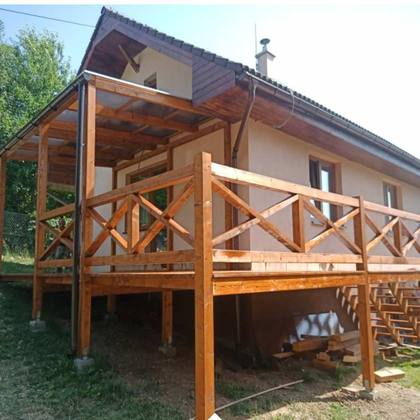
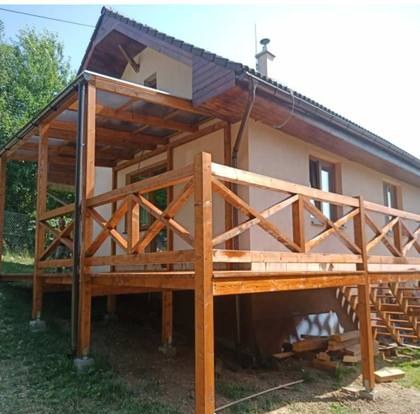
EcoDomcek: Realizacie ako kronika skutocnych stavieb
Najvacsi obraz na stranke dokazov bol render, potom osem rovnakych
kariet. Teraz kronika 2024 -> 2008: rok ako serifova cislica
stavebneho listu, kazda stavba so skutocnou fotkou v poctivej mierke
(dom <= 540, terasa <= 420, nikdy nad zdroj), miesto, specs, odkaz.
Filtre skryvaju aj prazdne rocniky. Render len na detaile Luciny.

Pat fotiek nieslo biely „jazycek" starej WordPress sablony zapeceny
v obraze — orezane jednym rezom z originalov. Rozmery fotiek sa citaju
zo suborov namiesto rucnych tabuliek, ktore sa po oreze rozisli.

LOCAL: 15 stranok x 3 sirky, router, filter, bundle z file://,
stavebny list. Safari a realny mobil NOT VALIDATED.

Claude-Session: https://claude.ai/code/session_0185BVM6PQ8B7oEkPHRwx1P3

diff --git a/clients/ecodomcek/web/src/site.css b/clients/ecodomcek/web/src/site.css
@@ -425,16 +425,6 @@ h1 em,h2 em,h3 em{font-style:normal;color:var(--moss)}
 .more{margin-top:clamp(30px,4vh,52px)}
 
 /* project cards: the photo is 420 px, so it is never shown larger than it is */
-.cards{display:grid;grid-template-columns:repeat(4,1fr);gap:clamp(18px,2.4vw,40px) clamp(16px,2vw,32px)}
-.card{display:block;grid-column:span 1}
-.card .frame{aspect-ratio:1/1;background:var(--paper2)}
-.card img{width:100%;height:100%;object-fit:cover;transition:transform 1.1s var(--ease)}
-.card:hover img{transform:scale(1.035)}
-.cmeta{display:flex;justify-content:space-between;gap:12px;margin-top:12px;font-family:var(--mono);
-  font-size:10px;letter-spacing:.12em;text-transform:uppercase;color:var(--ink2)}
-.card h3{margin-top:8px;font-size:clamp(17px,1.35vw,21px);line-height:1.2}
-.card .pl{margin-top:5px;font-family:var(--mono);font-size:10.5px;letter-spacing:.1em;
-  text-transform:uppercase;color:var(--ink2)}
 
 /* project detail: one honest photo plate beside the client's own words */
 .proj{display:grid;grid-template-columns:minmax(0,420px) minmax(0,1fr);gap:clamp(26px,5vw,80px);
@@ -480,11 +470,9 @@ h1 em,h2 em,h3 em{font-style:normal;color:var(--moss)}
   gap:clamp(26px,5vw,80px);align-items:start}
 
 @media (max-width:1040px){
-  .cards{grid-template-columns:repeat(2,1fr)}
   .refs{grid-template-columns:1fr}
 }
 @media (max-width:820px){
-  .cards{grid-template-columns:1fr 1fr;gap:20px 14px}
   .proj,.story{grid-template-columns:1fr;gap:28px}
   .plate{max-width:420px}
   .trio{grid-template-columns:1fr;gap:26px}
@@ -554,7 +542,6 @@ h1 em,h2 em,h3 em{font-style:normal;color:var(--moss)}
 .filters button sup{font-size:8px;margin-left:3px;color:var(--amber)}
 .filters button:hover{color:var(--ink);border-color:var(--ink2)}
 .filters button.on{color:var(--paper);background:var(--ink);border-color:var(--ink)}
-.card.off{display:none}
 
 /* nav superscripts */
 nav a sup{font-size:8px;margin-left:3px;color:var(--amber);letter-spacing:0}
@@ -1082,4 +1069,49 @@ h2.big em{font-style:normal;color:var(--moss)}
   .svchead{grid-template-columns:1fr}
   .svchead p{justify-self:start}
   .svcwords{font-size:clamp(34px,10.4vw,52px);line-height:1.06}
+}
+
+/* ═══ REALIZÁCIE — a chronicle of the real jobs ═════════════════════════
+   The work leads (exoape.md); every row is a real job with its real photo
+   at an honest size (basement.md); the year is the sheet's numeral.     */
+.realmast{padding-block:clamp(110px,15vh,160px) 0}
+.realmast h1{font-size:clamp(40px,5.3vw,90px)}
+.realmast + .band{padding-top:clamp(28px,5vh,56px)}
+.rmgrid{display:grid;grid-template-columns:minmax(0,1.1fr) minmax(0,.9fr);gap:clamp(24px,4vw,70px);align-items:end}
+.rmr .lead{max-width:42ch}
+.rmr .filters{margin-top:22px}
+.yeargroup{display:grid;grid-template-columns:minmax(0,.55fr) minmax(0,1.45fr);gap:clamp(20px,4vw,70px);
+  border-top:1px solid var(--line);padding-block:clamp(28px,5vh,60px)}
+.yeargroup.empty{display:none}
+.ynum{position:sticky;top:clamp(92px,13vh,124px);align-self:start;font-family:var(--serif);font-weight:200;
+  font-size:clamp(80px,10.5vw,180px);line-height:.8;letter-spacing:-.05em;color:var(--ink)}
+.jobs{display:grid;gap:clamp(36px,6vh,72px)}
+.job{display:grid;grid-template-columns:fit-content(600px) minmax(220px,1fr);gap:clamp(20px,3vw,48px);
+  align-items:end}
+.job.off{display:none}
+.jpic{width:min(var(--w),40vw);box-shadow:0 24px 50px -34px rgba(35,31,26,.55)}
+.jpic .clipimg{overflow:hidden;background:var(--paper2)}
+.jpic img{width:100%;transition:transform .7s var(--ease)}
+.job:hover .jpic img{transform:scale(1.025)}
+.jtext .mono{display:block}
+.jtext h2{font-size:clamp(26px,2.5vw,42px);line-height:1.04;margin:8px 0 18px}
+.jtext ul{list-style:none;margin:0;padding:0;border-top:1px solid var(--line2);max-width:420px}
+.jtext li{display:grid;grid-template-columns:118px minmax(0,1fr);gap:10px;padding:8px 0;
+  border-bottom:1px solid var(--line2);font-size:15px;line-height:1.35}
+.jtext li .mono{font-size:10px;align-self:center}
+.jgo{display:inline-flex;align-items:center;gap:10px;margin-top:18px;color:var(--moss);font-weight:500;
+  transition:gap .3s var(--ease)}
+.job:hover .jgo{gap:16px}
+.job.nophoto{grid-template-columns:minmax(0,1fr)}
+.job.nophoto .jtext{max-width:520px;padding:22px 0 0;border-top:1px dashed var(--line)}
+.chron-note{border-top:1px solid var(--line);padding-top:22px}
+@media (max-width:980px){
+  .rmgrid{grid-template-columns:1fr}
+  .job{grid-template-columns:minmax(0,1fr)}
+  .jpic{width:min(var(--w),100%)}
+}
+@media (max-width:820px){
+  .yeargroup{grid-template-columns:minmax(0,1fr);gap:18px;padding-block:26px 34px}
+  .ynum{position:static;font-size:clamp(64px,19vw,96px)}
+  .jobs{gap:40px}
 }

diff --git a/clients/ecodomcek/web/src/site.js b/clients/ecodomcek/web/src/site.js
@@ -65,7 +65,7 @@
   function initFilters() {
     var bar = main.querySelector('.filters');
     if (!bar) return;
-    var cards = main.querySelectorAll('.card');
+    var cards = main.querySelectorAll('.card, .job');
     bar.addEventListener('click', function (e) {
       var b = e.target.closest('button');
       if (!b) return;
@@ -74,6 +74,10 @@
       cards.forEach(function (c) {
         var tags = (c.dataset.tags || '').split('|');
         c.classList.toggle('off', !!f && tags.indexOf(f) === -1);
+      });
+      // a year with nothing left in it disappears with its numeral
+      main.querySelectorAll('.yeargroup').forEach(function (g) {
+        g.classList.toggle('empty', !g.querySelector('.job:not(.off)'));
       });
       ScrollTrigger.refresh();
     });

diff --git a/clients/ecodomcek/web/src/pages.py b/clients/ecodomcek/web/src/pages.py
@@ -42,6 +42,12 @@ def layer(name):
             f'<img class="mat" src="assets/lyr-{name}.webp" alt="" draggable="false">{pin}</div>')
 
 
+# real photo sizes, read from the files — hard-coded sizes drifted the
+# moment a photo was re-cropped
+from PIL import Image as _Image
+SHOTS = {f.stem: _Image.open(f).size for f in sorted((REND / "photos").glob("*.jpg"))}
+
+
 def title_of(p):
     return p.get("short", p["title"])
 
@@ -265,47 +271,53 @@ def build(B):
     # ═══════════════════════════════════════════════════════════════════
     # 2 — REALIZÁCIE (index)
     # ═══════════════════════════════════════════════════════════════════
-    cards = ""
-    for i, p in enumerate(C.PROJECTS):
-        cards += (f'<a class="card" href="realizacia-{p["slug"]}.html" data-reveal '
-                  f'data-tags="{esc("|".join(p["tags"]))}">'
-                  f'<div class="frame clipimg">{plate_img(p, esc)}</div>'
-                  f'<div class="cmeta"><span class="yr">{p["year"]}</span>'
-                  f'<span class="tg">{esc(" · ".join(p["tags"]))}</span></div>'
-                  f"<h3>{esc(title_of(p))}</h3>"
-                  f'<p class="pl">{esc(p["place"])}</p></a>')
+    # The proof page used to open on a visualisation — the render was the
+    # biggest picture on the page that is supposed to show built work — and
+    # then eight identical square cards. Now it is a chronicle of the real
+    # jobs, newest first, ending where it began (2008). The year is the
+    # sheet's serif numeral (same system as the detail page); each job keeps
+    # its real photo at an honest size — a house wider than a terrace, never
+    # wider than its source (basement.md: real content is the credibility;
+    # exoape.md: the work leads, the type floats beside it at full ink).
+    from collections import Counter, OrderedDict
+    years = OrderedDict()
+    for p in C.PROJECTS:
+        years.setdefault(p["year"], []).append(p)
+    SRC = {k: w for k, (w, _) in SHOTS.items()}
+    groups = ""
+    for y, jobs in years.items():
+        rows = ""
+        for p in jobs:
+            house = "Dom" in p["tags"]
+            wmax = min(SRC.get(p.get("photo") or "", 0), 540 if house else 420)
+            specs = "".join(f"<li><span class=\"mono\">{esc(k)}</span>{esc(v)}</li>" for k, v in p["specs"][:3])
+            pic = (f'<div class="jpic" style="--w:{wmax}px"><div class="clipimg">{plate_img(p, esc)}</div></div>'
+                   if photo_src(p) else "")
+            where = f'{esc(p["place"])} · ' if p["place"] else ""
+            rows += (f'<a class="job{" nophoto" if not pic else ""}" href="realizacia-{p["slug"]}.html" data-reveal '
+                     f'data-tags="{esc("|".join(p["tags"]))}">{pic}'
+                     f'<div class="jtext"><span class="mono">{where}{esc(p["month"])}</span>'
+                     f'<h2>{esc(title_of(p))}</h2><ul>{specs}</ul>'
+                     f'<span class="jgo">Stavebný list {ARROW}</span></div></a>')
+        groups += (f'<section class="yeargroup" data-year="{y}"><div class="ynum" aria-hidden="true">{y}</div>'
+                   f'<div class="jobs">{rows}</div></section>')
 
-    real = masthead("Osem stavieb.|Jedna <em>technológia</em>.",
-                    "Od svojpomocného domčeka v Lúčine po dvojpodlažný dom pri Košiciach. "
-                    "Každá stavba je difúzne otvorená a z ekologických materiálov — "
-                    "to sa nemení, aj keď fasáda áno.", name="Realizácie")
-    from collections import Counter
     cnt = Counter(t for p in C.PROJECTS for t in p["tags"])
     chips_f = f'<button class="on" data-f="">Všetko <sup>{len(C.PROJECTS)}</sup></button>' + "".join(
         f'<button data-f="{esc(t)}">{esc(t)} <sup>{n}</sup></button>' for t, n in cnt.most_common())
-    real += section(1, "Realizácie", "paper", f'''<div class="wrap">
-  <div class="filters mono" data-reveal>{chips_f}</div>
-  <a class="feature" href="realizacia-2024-lucina.html" data-reveal>
-    <figure data-par>
-      <div class="frame clipimg" style="aspect-ratio:21/9">
-        <img src="assets/hero.jpg" alt="Rodinný dom Lúčina — vizualizácia" loading="eager"></div>
-    </figure>
-    <div class="fmeta">
-      <div>
-        <h2 class="fade">Moderný dizajnový dom {ARROW}</h2>
-      </div>
-      <div>
-        <p class="fade d2">Drevená fasáda (Rhombus profil) v kombinácii s kompaktnými doskami
-          Fundermax. Stojí v našej dedine — vidíme naň z dvora.</p>
-        <p class="fine fade d3" style="margin-top:12px">Vizualizácia navrhnutá podľa realizácie —
-          nie je to fotografia.</p>
-      </div>
+    real = f'''<section class="band realmast" data-sec="Realizácie">
+  <div class="wrap rmgrid" data-reveal>
+    <h1>{lines("Osem stavieb.|Jedna <em>technológia</em>.")}</h1>
+    <div class="rmr">
+      <p class="lead fade d2">Od svojpomocného domčeka v Lúčine po dvojpodlažný dom pri Košiciach.
+        Každá stavba je difúzne otvorená a z ekologických materiálov — to sa nemení, aj keď fasáda áno.</p>
+      <div class="filters mono fade d3">{chips_f}</div>
     </div>
-  </a>
-  <div class="cards">{cards}</div>
-  <p class="fine" style="margin-top:clamp(30px,5vh,60px)">Fotografie sú zo skutočných realizácií
-    EcoDomčeka, v rozlíšení, v akom ich máme. Garážo-sklado-terasu (2019) zatiaľ bez fotografie —
-    ostré zábery doplníme, keď ich od klienta dostaneme.</p>
+  </div>
+</section>'''
+    real += section(1, "Kronika", "paper", f'''<div class="wrap chronicle">{groups}
+  <p class="fine chron-note">Fotografie sú zo skutočných realizácií EcoDomčeka, v rozlíšení, v akom
+    ich máme. Garážo-sklado-terasu (2019) zatiaľ bez fotografie.</p>
 </div>''')
     real += contact_band("realizacie.html")
     page("realizacie.html", "Realizácie — EcoDomček",
@@ -337,10 +349,7 @@ def build(B):
     # project without a photograph keeps the whole drawing and loses only
     # the image.
     # ═══════════════════════════════════════════════════════════════════
-    SHOTSIZE = {"2008-prvotina": (800, 777), "2015-budatin": (800, 762),
-                "2019-terasa-chrastne": (800, 568), "2021-bungalov-presov": (800, 775),
-                "2021-terasa": (420, 420), "2023-kosice": (800, 670),
-                "2024-lucina": (880, 850)}
+    SHOTSIZE = SHOTS
     for i, p in enumerate(C.PROJECTS):
         nxt = C.PROJECTS[(i + 1) % len(C.PROJECTS)]
         prv = C.PROJECTS[(i - 1) % len(C.PROJECTS)]

diff --git a/clients/ecodomcek/ART_DIRECTION.md b/clients/ecodomcek/ART_DIRECTION.md
@@ -661,3 +661,27 @@ telefónu) na oboch šírkach, potom plná regresia. Zo auditu ostáva
 otvorené: Realizácie (render ako hlavný obraz, rovnaké karty), O nás
 (prázdna pravá polovica, zdvojené motto), LCP úvodu 5,0 s na
 mobile, text pod 12 px, dva `h1` na úvode.
+
+---
+
+## Fáza 12 — Realizácie ako kronika (2026-09-24)
+
+Audit: najväčší obraz na stránke dôkazov bol **render**, potom osem
+rovnakých štvorcových kariet; prvá obrazovka bez jedinej fotky. Teraz
+kronika skutočných stavieb, najnovšie prvé, končí tam, kde to začalo
+(2008). Rok je serifová číslica stavebného listu, sticky pri svojej
+skupine; každá stavba má skutočnú fotku v poctivej mierke (dom ≤ 540 px,
+terasa ≤ 420 px, nikdy nad zdroj), miesto, tri riadky zo `specs` a
+odkaz na stavebný list (`basement.md`: skutočné riadky; `exoape.md`:
+práca vedie, typ stojí vedľa v plnom atramente). Garáž bez fotky je
+poctivý textový riadok. Filtre skrývajú stavby aj prázdne ročníky.
+Render ostal len na detaile Lúčiny, označený.
+
+Pri tom: **päť fotiek nieslo biely „jazýček" starej WordPress šablóny**
+zapečený v obraze (2015, 2024, Bungalov dole; 2008 hore; Veľká terasa
+dole) — orezané jedným rezom z originálov, nič dokreslené. Rozmery
+fotiek sa už nepíšu ručne (`SHOTSIZE`/`SRC` sa rozišli s prvým orezom),
+čítajú sa zo súborov (`SHOTS` v `pages.py`). Mŕtve CSS kariet preč.
+
+LOCAL: 15 stránok × 3 šírky, router, filter (Terasa → 3 stavby, ročníky
+2021 a 2019), bundle z `file://` (61 obrázkov), stavebný list.
